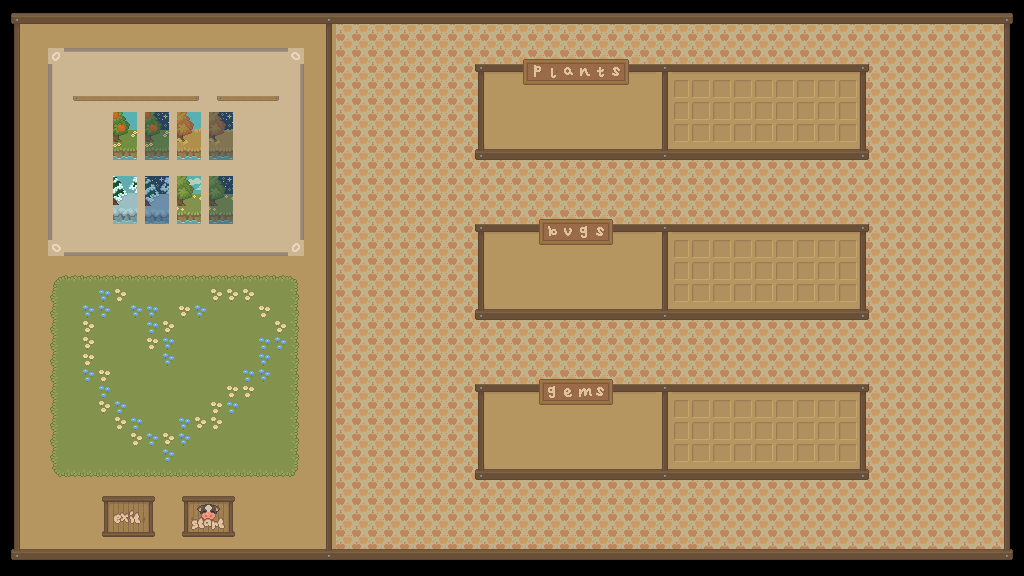
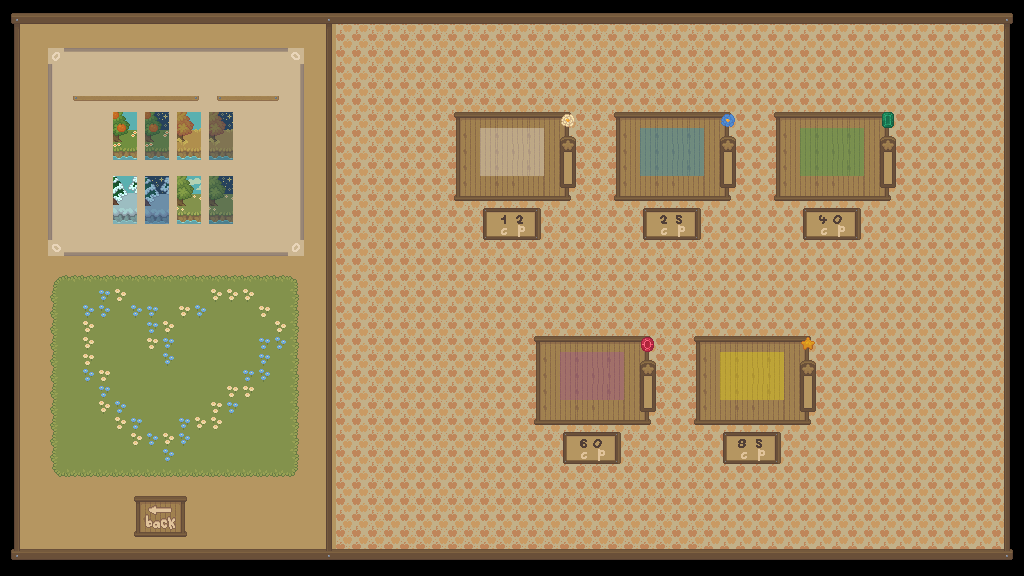
scaled purchase options implemented

Changed region(s): [[0.4375, 0.0938, 0.875, 0.8438], [0.0938, 0.8438, 0.25, 0.9375]]

diff --git a/client/home/index.js b/client/home/index.js
@@ -1,21 +1,72 @@
-const rarityGenerator = () => {
+const white = () => {
+    COWBUILDER('white', 12)
+};
+
+const blue = () => {
+    COWBUILDER('blue', 25)
+};
+
+const green = () => {
+    COWBUILDER('green', 40)
+};
+
+const purple = () => {
+    COWBUILDER('purple', 60)
+};
+
+const gold = () => {
+    COWBUILDER('gold', 85)
+};
+
+
+const rarityGenerator = (colour) => {
+    console.log(`${colour} chosen`)
     let val = Math.random();
-    if (val >= 0.6 ) return 1
-    else if (val >= 0.4) return 2
-    else if (val >= 0.27) return 3
-    else if (val >= 0.15) return 4
-    else return 5
+    switch(colour){
+        case 'white':
+            if (val >= 0.4) return 1
+            else if (val >= 0.1) return 2
+            else return 3
+            break;
+        case 'blue':
+            if (val >= 0.45) return 1
+            else if (val >= 0.2) return 2
+            else return 3
+            break;
+        case 'green':
+            if (val >= 0.45) return 1
+            else if (val >= 0.2) return 2
+            else if (val >= 0.05) return 3
+            else if (val >= 0.01) return 4
+            else return 5
+            break;
+        case 'purple':
+            if (val >= 0.6) return 1
+            else if (val >= 0.5) return 2
+            else if (val >= 0.25) return 3
+            else if (val >= 0.05) return 4
+            else return 5
+            break;
+        case 'gold':
+            if (val >= 0.7) return 1
+            else if (val >= 0.50) return 2
+            else if (val >= 0.25) return 3
+            else if (val >= 0.1) return 4
+            else return 5
+            break;
+    
+    }
 }
 
-const enough_cp = () => {
-    if (INVENTORY.CP >= 50) return true
+const enough_cp = (cost) => {
+    if (INVENTORY.CP >= cost) return true
 }
 
-const BUILD_COW = () => {
+const BUILD_COW = (colour, price) => {
     let name = prompt("Enter a name for your cow!")
     let age = Math.round(Math.random()*10);
-    let rarity = rarityGenerator()
-    let cost = 50
+    let rarity = rarityGenerator(colour)
+    let cost = price
     let image = '../assets/img/cow.png'
     let COW = {
         _id: name,
@@ -27,10 +78,10 @@ const BUILD_COW = () => {
     return COW;
 };
 
-const COWBUILDER = async() => {
-    if(enough_cp){
-        let COW = BUILD_COW();
-        UPDATE_ACCOUNT(50, COW)
+const COWBUILDER = async(colour, cost) => {
+    if(enough_cp(cost)){
+        let COW = BUILD_COW(colour, cost);
+        UPDATE_ACCOUNT(cost, COW)
 
     } else {
         window.alert("You cannot afford a new cow")
@@ -40,10 +91,14 @@ const COWBUILDER = async() => {
 const getCP = () => {
     ACCOUNT = JSON.parse(localStorage.getItem("user"))
     INVENTORY = ACCOUNT.items[0]
-    console.log(INVENTORY);
 };
 
-buildCow.addEventListener("click", COWBUILDER);
+whiteBox.addEventListener("click", white);
+blueBox.addEventListener("click", blue);
+greenBox.addEventListener("click", green);
+purpleBox.addEventListener("click", purple);
+goldBox.addEventListener("click", gold);
+
 window.addEventListener("load", getCP)
 
 function animate() {

diff --git a/client/home/routes.js b/client/home/routes.js
@@ -8,7 +8,6 @@ const UPDATE_ACCOUNT = async(cost, COW) => {
             cost -= 5;
             ACCOUNT.items[0].CP -=5;
             ACCOUNT.items[0].gem -= 1;
-            console.log(cost, ACCOUNT.items[0].gem, ACCOUNT.items[0].CP);
         }
     }
     for (i = 0; i < maxVeg; i++){
@@ -16,7 +15,6 @@ const UPDATE_ACCOUNT = async(cost, COW) => {
             cost -=3;
             ACCOUNT.items[0].CP -=3;
             ACCOUNT.items[0].veg -=1;
-            console.log(cost, ACCOUNT.items[0].veg, ACCOUNT.items[0].CP);
         }
     }
     for (i = 0; i<maxBug; i++){
@@ -24,45 +22,11 @@ const UPDATE_ACCOUNT = async(cost, COW) => {
             cost -=1;
             ACCOUNT.items[0].CP -=1;
             ACCOUNT.items[0].bug -=1;
-            console.log(cost, ACCOUNT.items[0].bug, ACCOUNT.items[0].CP)
         }
     }
-    console.log(ACCOUNT);
     localStorage.setItem("user", JSON.stringify(ACCOUNT));
     let id = localStorage.getItem("username");
     axios.post(`/users/save/${id}`, ACCOUNT).then(res => {
         console.log(res.data);
     }).catch(err => console.log(err));
-}
-
-const BUY_COW = async(cost) => {
-    let gems = (cost % 5)*5;
-    let vegs = 0;
-    let bugs = 0;
-    let remainder = cost - gems;
-    if (remainder > 0) vegs = (remainder % 3)*3;
-    if (remainder - vegs > 0) bugs = remainder-vegs;
-    let ACCOUNT = JSON.parse(localStorage.getItem("user"));
-    console.log(ACCOUNT);
-    ACCOUNT.items[0].gem -= gems;
-    ACCOUNT.items[0].veg -= vegs;
-    ACCOUNT.items[0].bug -= bugs;
-    ACCOUNT.items[0].CP -= cost;
-    let param = localStorage.getItem("username");
-    await PERSIST(param, ACCOUNT);
-    await UPDATE_LOCAL(param);
-};
-
-const UPDATE_LOCAL = async(reqParam) => {
-    await axios.get(`/users/get/${reqParam}`).then((res) => {
-        console.log(res.data);
-        localStorage.setItem("user", JSON.stringify(res.data));
-        console.log(localStorage.getItem("user"))
-    }).catch((err) => console.log(err))
-};
-
-const PERSIST = async(reqParam, reqBody) => {
-    await axios.post(`/users/save/${reqParam}`, reqBody).then((res) => {
-        console.log(res.data)
-    }).catch((err) => console.log(err))
 };

diff --git a/client/styles.css b/client/styles.css
@@ -328,19 +328,71 @@ li{
 /*INTERACTIVE CANVAS OVERLAYS*/
 #backBtn{
     margin-top: auto;
-    margin-left: 102px;
+    margin-left: 132px;
     margin-bottom: 45px;
     width: 3.5em;
     height: 2.5em;
 }
 
-#cowBtn{
-    margin-left: 20px;
+#whiteBox{
+    margin-left: 270px;
     margin-right: auto;
-    margin-bottom: 45px;
+    margin-bottom: 380px;
     margin-top: auto;
-    width: 3.5em;
-    height: 2.5em;
+    width: 8em;
+    height: 7em;
+    background-color: transparent;
+    border: 0;
+    pointer-events: all;
+    cursor: pointer;
+}
+
+#blueBox{
+    margin-left: -160px;
+    margin-right: auto;
+    margin-bottom: 380px;
+    margin-top: auto;
+    width: 8em;
+    height: 7em;
+    background-color: transparent;
+    border: 0;
+    pointer-events: all;
+    cursor: pointer;
+}
+
+#greenBox{
+    margin-left: -160px;
+    margin-right: auto;
+    margin-bottom: 380px;
+    margin-top: auto;
+    width: 8em;
+    height: 7em;
+    background-color: transparent;
+    border: 0;
+    pointer-events: all;
+    cursor: pointer;
+}
+
+#purpleBox{
+    margin-left: -160px;
+    margin-right: auto;
+    margin-bottom: 156px;
+    margin-top: auto;
+    width: 8em;
+    height: 7em;
+    background-color: transparent;
+    border: 0;
+    pointer-events: all;
+    cursor: pointer;
+}
+
+#goldBox{
+    margin-left: -160px;
+    margin-right: auto;
+    margin-bottom: 156px;
+    margin-top: auto;
+    width: 8em;
+    height: 7em;
     background-color: transparent;
     border: 0;
     pointer-events: all;

diff --git a/client/home/index.html b/client/home/index.html
@@ -15,7 +15,11 @@
         <div id="child"></div>
         <div id="container">
             <a id="backBtn" href="../index.html"></a>
-            <button id="cowBtn"></button>
+            <button id="whiteBox"></button>
+            <button id="purpleBox"></button>
+            <button id="blueBox"></button>
+            <button id="goldBox"></button>
+            <button id="greenBox"></button>
         </div>
         <canvas id="canvas"></canvas>
     </div>

diff --git a/client/home/objects.js b/client/home/objects.js
@@ -12,7 +12,11 @@ const display = new Image();
 display.src = '../assets/img/home.png';
 
 // DOM
-const buildCow = document.querySelector('#cowBtn');
+const whiteBox = document.querySelector('#whiteBox');
+const blueBox = document.querySelector('#blueBox');
+const greenBox = document.querySelector('#greenBox');
+const purpleBox = document.querySelector('#purpleBox');
+const goldBox = document.querySelector('#goldBox');
 
 // IN-GAME ITEMS
 let ACCOUNT;
